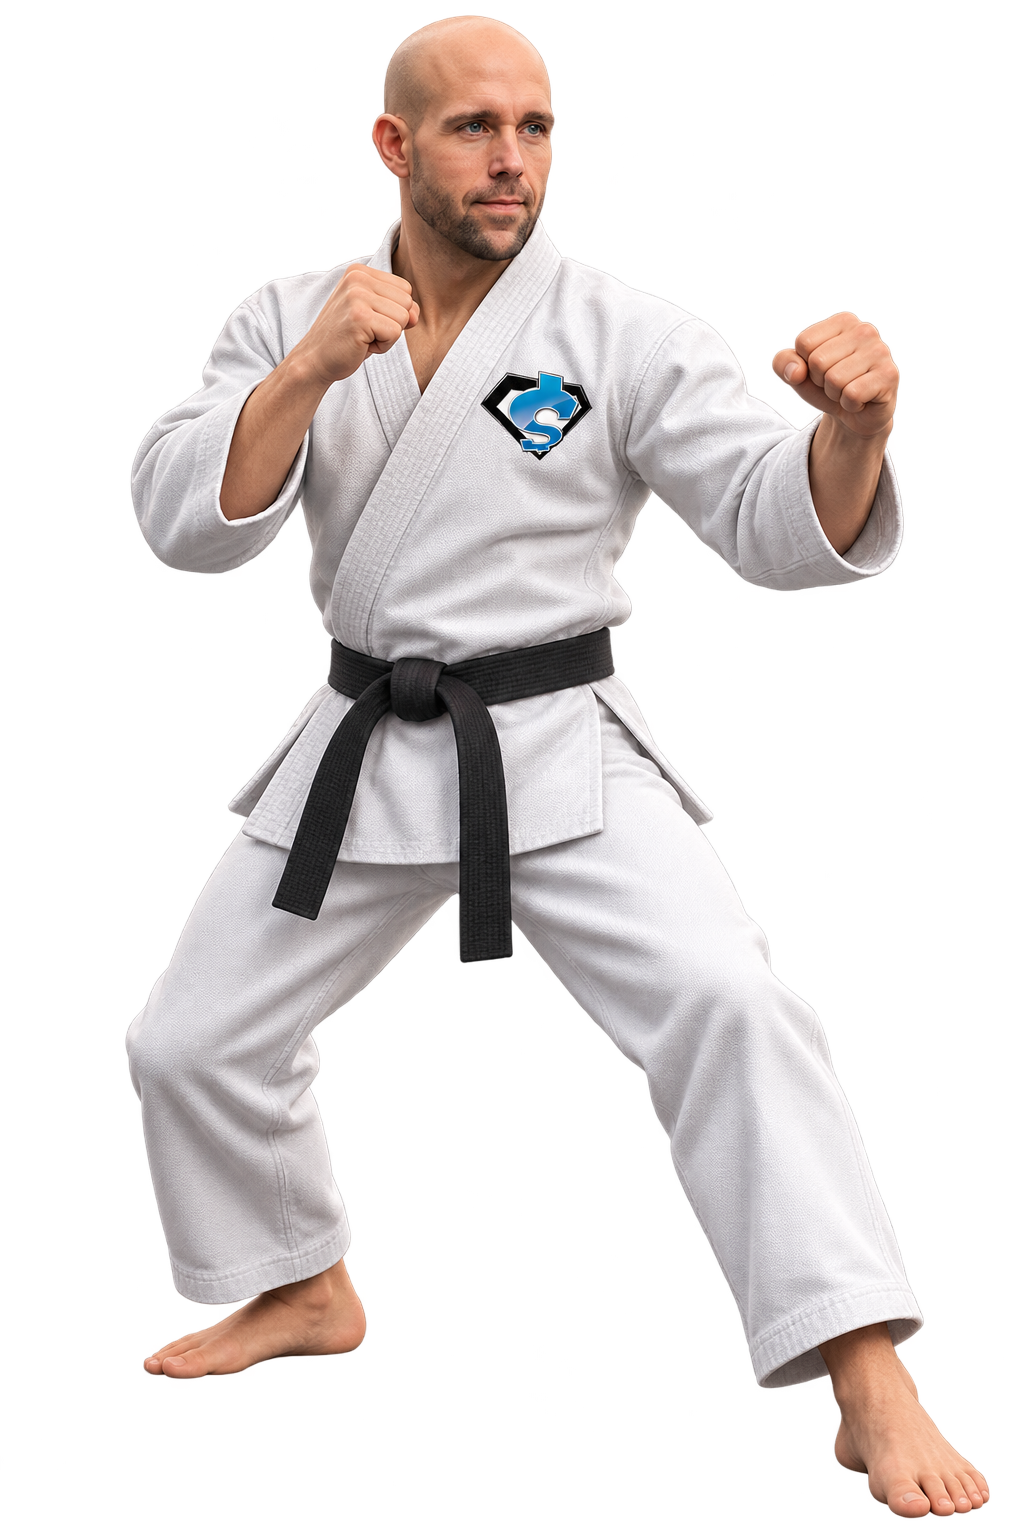
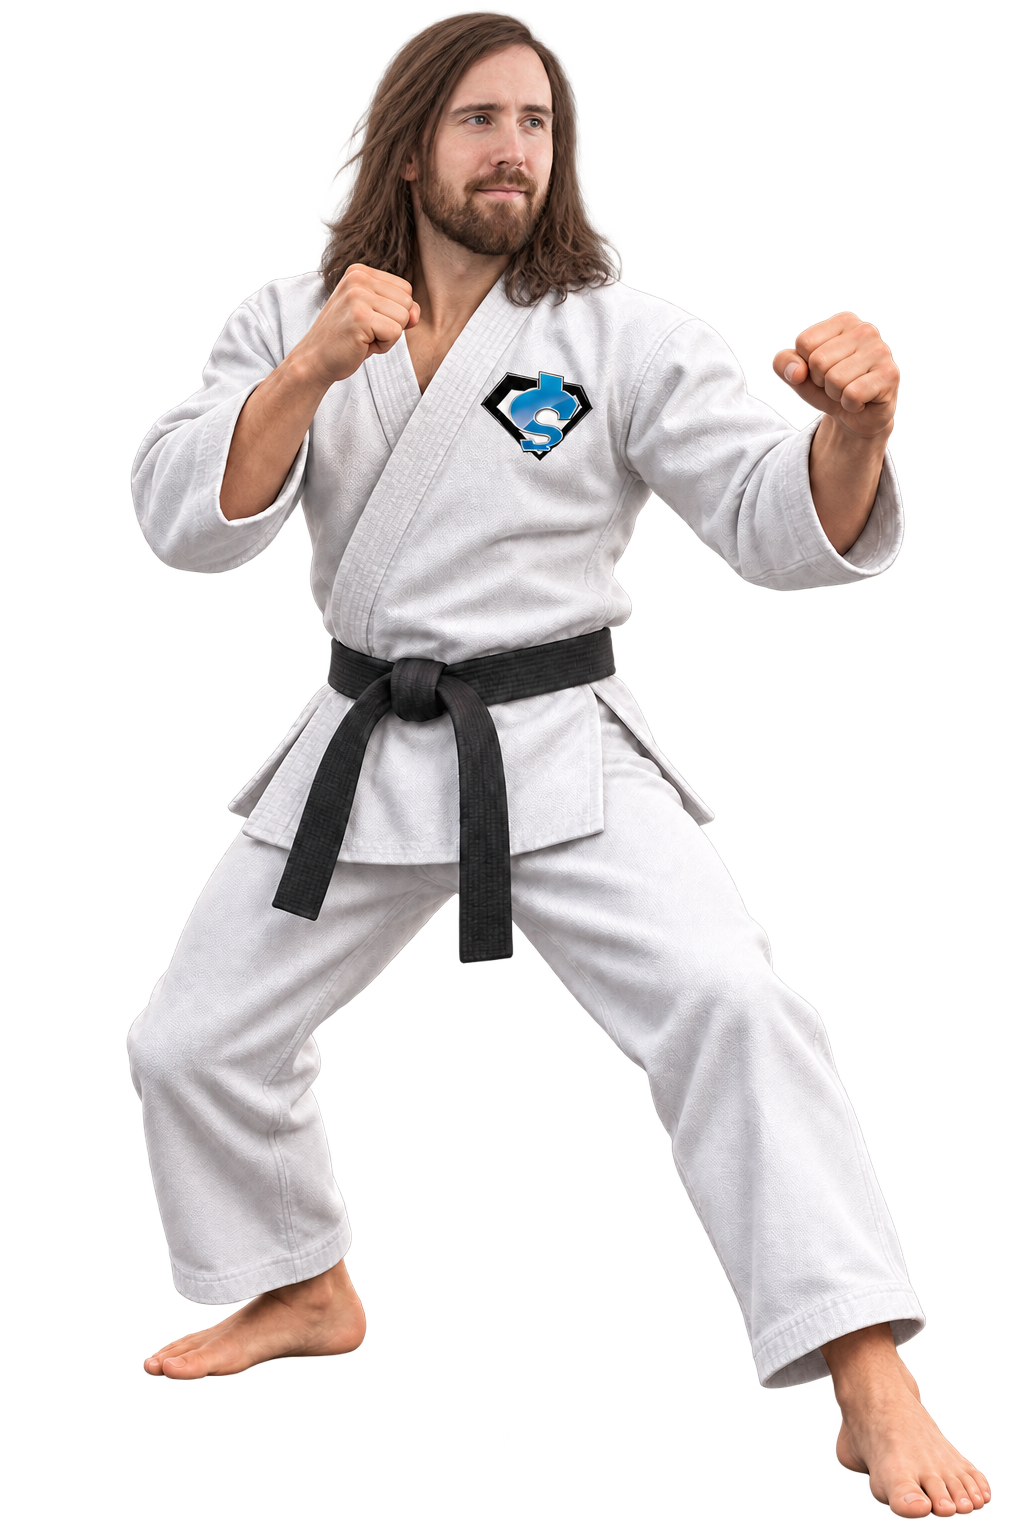
fix: 👆 stop losing a technique flicked between two frames
Input was sampled once per simulation tick, but ticks drain in bursts at frame
boundaries. A flick of the technique stick that began and ended inside one
frame gap was therefore never sampled, and the technique simply did not come
out. It bites hardest on a struggling device — precisely when a swallowed input
is least forgivable — and it is why CI could hold the stick and read back a
null move on a software renderer.

🔒 PressLatch records a press the simulation has not consumed and replays it on
the next read, for one read only, so the right stick still passes back through
neutral and a held direction cannot machine-gun. Wired into both the touch pad
and the keyboard, which has the same gap between keydown and the next frame.

🧪 Also covers the software gate, which had no tests at all despite being the
thing standing in for a physical stick's detents: dead zone, exclusive
dominant axis, and the hysteresis that stops a thumb wobbling on a diagonal
from throwing a technique nobody asked for.

91 unit tests, 12 browser tests.

diff --git a/apps/game/tests/unit/stick.test.ts b/apps/game/tests/unit/stick.test.ts
@@ -1,0 +1,59 @@
+import { describe, expect, test } from 'vitest';
+import { DEFAULT_GATE, PressLatch, resolveDirection } from '../../src/input/stick.js';
+
+describe('the software gate', () => {
+  test('a thumb resting inside the dead zone reads as neutral', () => {
+    expect(resolveDirection(0, 0, 'neutral')).toBe('neutral');
+    expect(resolveDirection(DEFAULT_GATE.deadZone - 1, 0, 'neutral')).toBe('neutral');
+  });
+
+  test('past the dead zone the dominant axis wins, exclusively', () => {
+    expect(resolveDirection(40, 5, 'neutral')).toBe('right');
+    expect(resolveDirection(-40, 5, 'neutral')).toBe('left');
+    expect(resolveDirection(5, -40, 'neutral')).toBe('up');
+    expect(resolveDirection(5, 40, 'neutral')).toBe('down');
+  });
+
+  test('a thumb wobbling on the diagonal does not chatter between directions', () => {
+    // Held right, now marginally more vertical: without hysteresis this flips
+    // every frame and the player throws a technique they never asked for.
+    expect(resolveDirection(30, 33, 'right')).toBe('right');
+    // Commit properly to the other axis and it does switch.
+    expect(resolveDirection(30, 60, 'right')).toBe('down');
+  });
+
+  test('hysteresis works in both directions', () => {
+    expect(resolveDirection(33, 30, 'down')).toBe('down');
+    expect(resolveDirection(60, 30, 'down')).toBe('right');
+  });
+});
+
+describe('PressLatch', () => {
+  test('a live value passes straight through', () => {
+    const latch = new PressLatch<string>();
+    latch.press('up');
+    expect(latch.resolve('up')).toBe('up');
+  });
+
+  test('a press released before anyone read it is replayed once', () => {
+    const latch = new PressLatch<string>();
+    latch.press('up');
+    latch.release();
+    expect(latch.resolve(null)).toBe('up');
+    // Exactly once: the right stick must return to neutral before the next one.
+    expect(latch.resolve(null)).toBeNull();
+  });
+
+  test('a press the simulation already saw is not replayed after release', () => {
+    const latch = new PressLatch<string>();
+    latch.press('up');
+    expect(latch.resolve('up')).toBe('up');
+    latch.release();
+    expect(latch.resolve(null)).toBeNull();
+  });
+
+  test('nothing is invented when nothing was pressed', () => {
+    const latch = new PressLatch<string>();
+    expect(latch.resolve(null)).toBeNull();
+  });
+});

diff --git a/apps/game/src/input/touch.ts b/apps/game/src/input/touch.ts
@@ -1,5 +1,5 @@
 import type { Dir4, StickPair } from '@smkk/sim';
-import { DEFAULT_GATE, resolveDirection } from './stick.js';
+import { DEFAULT_GATE, PressLatch, resolveDirection } from './stick.js';
 
 interface StickBinding {
   readonly zone: HTMLElement;
@@ -31,6 +31,8 @@ export class TouchInput {
   private readonly left = bind('zone-left', 'stick-left');
   private readonly right = bind('zone-right', 'stick-right');
   private readonly cleanup: Array<() => void> = [];
+  /** A technique press the simulation has not sampled yet. */
+  private readonly latch = new PressLatch<StickPair>();
   /** True once any real pointer has driven the pad. */
   active = false;
 
@@ -54,7 +56,11 @@ export class TouchInput {
       if (stick.pointerId !== event.pointerId) return;
       const dx = event.clientX - stick.originX;
       const dy = event.clientY - stick.originY;
+      const previous = stick.dir;
       stick.dir = resolveDirection(dx, dy, stick.dir, DEFAULT_GATE);
+      if (stick === this.right && stick.dir !== 'neutral' && stick.dir !== previous) {
+        this.latch.press({ left: this.left.dir, right: stick.dir });
+      }
       this.paint(stick, dx, dy);
       event.preventDefault();
     };
@@ -66,6 +72,7 @@ export class TouchInput {
       }
       stick.pointerId = null;
       stick.dir = 'neutral';
+      if (stick === this.right) this.latch.release();
       stick.zone.classList.remove('engaged');
       this.paint(stick, 0, 0);
       event.preventDefault();
@@ -92,7 +99,10 @@ export class TouchInput {
   }
 
   read(): StickPair {
-    return { left: this.left.dir, right: this.right.dir };
+    const live = this.right.dir === 'neutral' ? null : { left: this.left.dir, right: this.right.dir };
+    const resolved = this.latch.resolve(live);
+    if (resolved !== null) return resolved;
+    return { left: this.left.dir, right: 'neutral' };
   }
 
   dispose(): void {

diff --git a/apps/game/src/input/stick.ts b/apps/game/src/input/stick.ts
@@ -39,3 +39,48 @@ export function resolveDirection(
   if (useHorizontal) return dx < 0 ? 'left' : 'right';
   return dy < 0 ? 'up' : 'down';
 }
+
+/**
+ * Holds a technique press until the simulation has actually seen it.
+ *
+ * Input is read once per simulation tick, but ticks are drained in bursts at
+ * frame boundaries — so a flick of the technique stick that begins and ends
+ * between two frames is never sampled at all, and the technique simply does
+ * not come out. That is worst exactly when the device is struggling, which is
+ * exactly when a dropped input is least forgivable.
+ *
+ * The latch records a press the simulation has not consumed yet and replays it
+ * on the next read. It replays for one read only, so the right stick still
+ * passes back through neutral and a held direction cannot machine-gun.
+ */
+export class PressLatch<T> {
+  private pending: T | null = null;
+  private delivered = true;
+
+  /** Call when the stick leaves neutral. */
+  press(value: T): void {
+    this.pending = value;
+    this.delivered = false;
+  }
+
+  /** Call when the stick returns to neutral. Keeps an unseen press queued. */
+  release(): void {
+    if (this.delivered) this.pending = null;
+  }
+
+  /** The live value if there is one, otherwise a press nobody has seen yet. */
+  resolve(live: T | null): T | null {
+    if (live !== null) {
+      this.delivered = true;
+      this.pending = null;
+      return live;
+    }
+    if (this.pending !== null) {
+      const replayed = this.pending;
+      this.pending = null;
+      this.delivered = true;
+      return replayed;
+    }
+    return null;
+  }
+}

diff --git a/apps/game/src/input/keyboard.ts b/apps/game/src/input/keyboard.ts
@@ -1,4 +1,5 @@
 import type { Dir4, StickPair } from '@smkk/sim';
+import { PressLatch } from './stick.js';
 
 const LEFT_KEYS: Record<string, Dir4> = {
   KeyW: 'up',
@@ -22,6 +23,9 @@ const RIGHT_KEYS: Record<string, Dir4> = {
 export class KeyboardInput {
   private readonly held = new Set<string>();
   private readonly cleanup: Array<() => void> = [];
+  /** A keypress can begin and end between two frames, exactly like a flick. */
+  private readonly latch = new PressLatch<StickPair>();
+  private previousRight: Dir4 = 'neutral';
 
   constructor(target: Window = window) {
     const down = (event: KeyboardEvent): void => {
@@ -55,7 +59,15 @@ export class KeyboardInput {
   }
 
   read(): StickPair {
-    return { left: this.resolve(LEFT_KEYS), right: this.resolve(RIGHT_KEYS) };
+    const left = this.resolve(LEFT_KEYS);
+    const right = this.resolve(RIGHT_KEYS);
+
+    if (right !== 'neutral' && right !== this.previousRight) this.latch.press({ left, right });
+    if (right === 'neutral' && this.previousRight !== 'neutral') this.latch.release();
+    this.previousRight = right;
+
+    const resolved = this.latch.resolve(right === 'neutral' ? null : { left, right });
+    return resolved ?? { left, right: 'neutral' };
   }
 
   dispose(): void {
